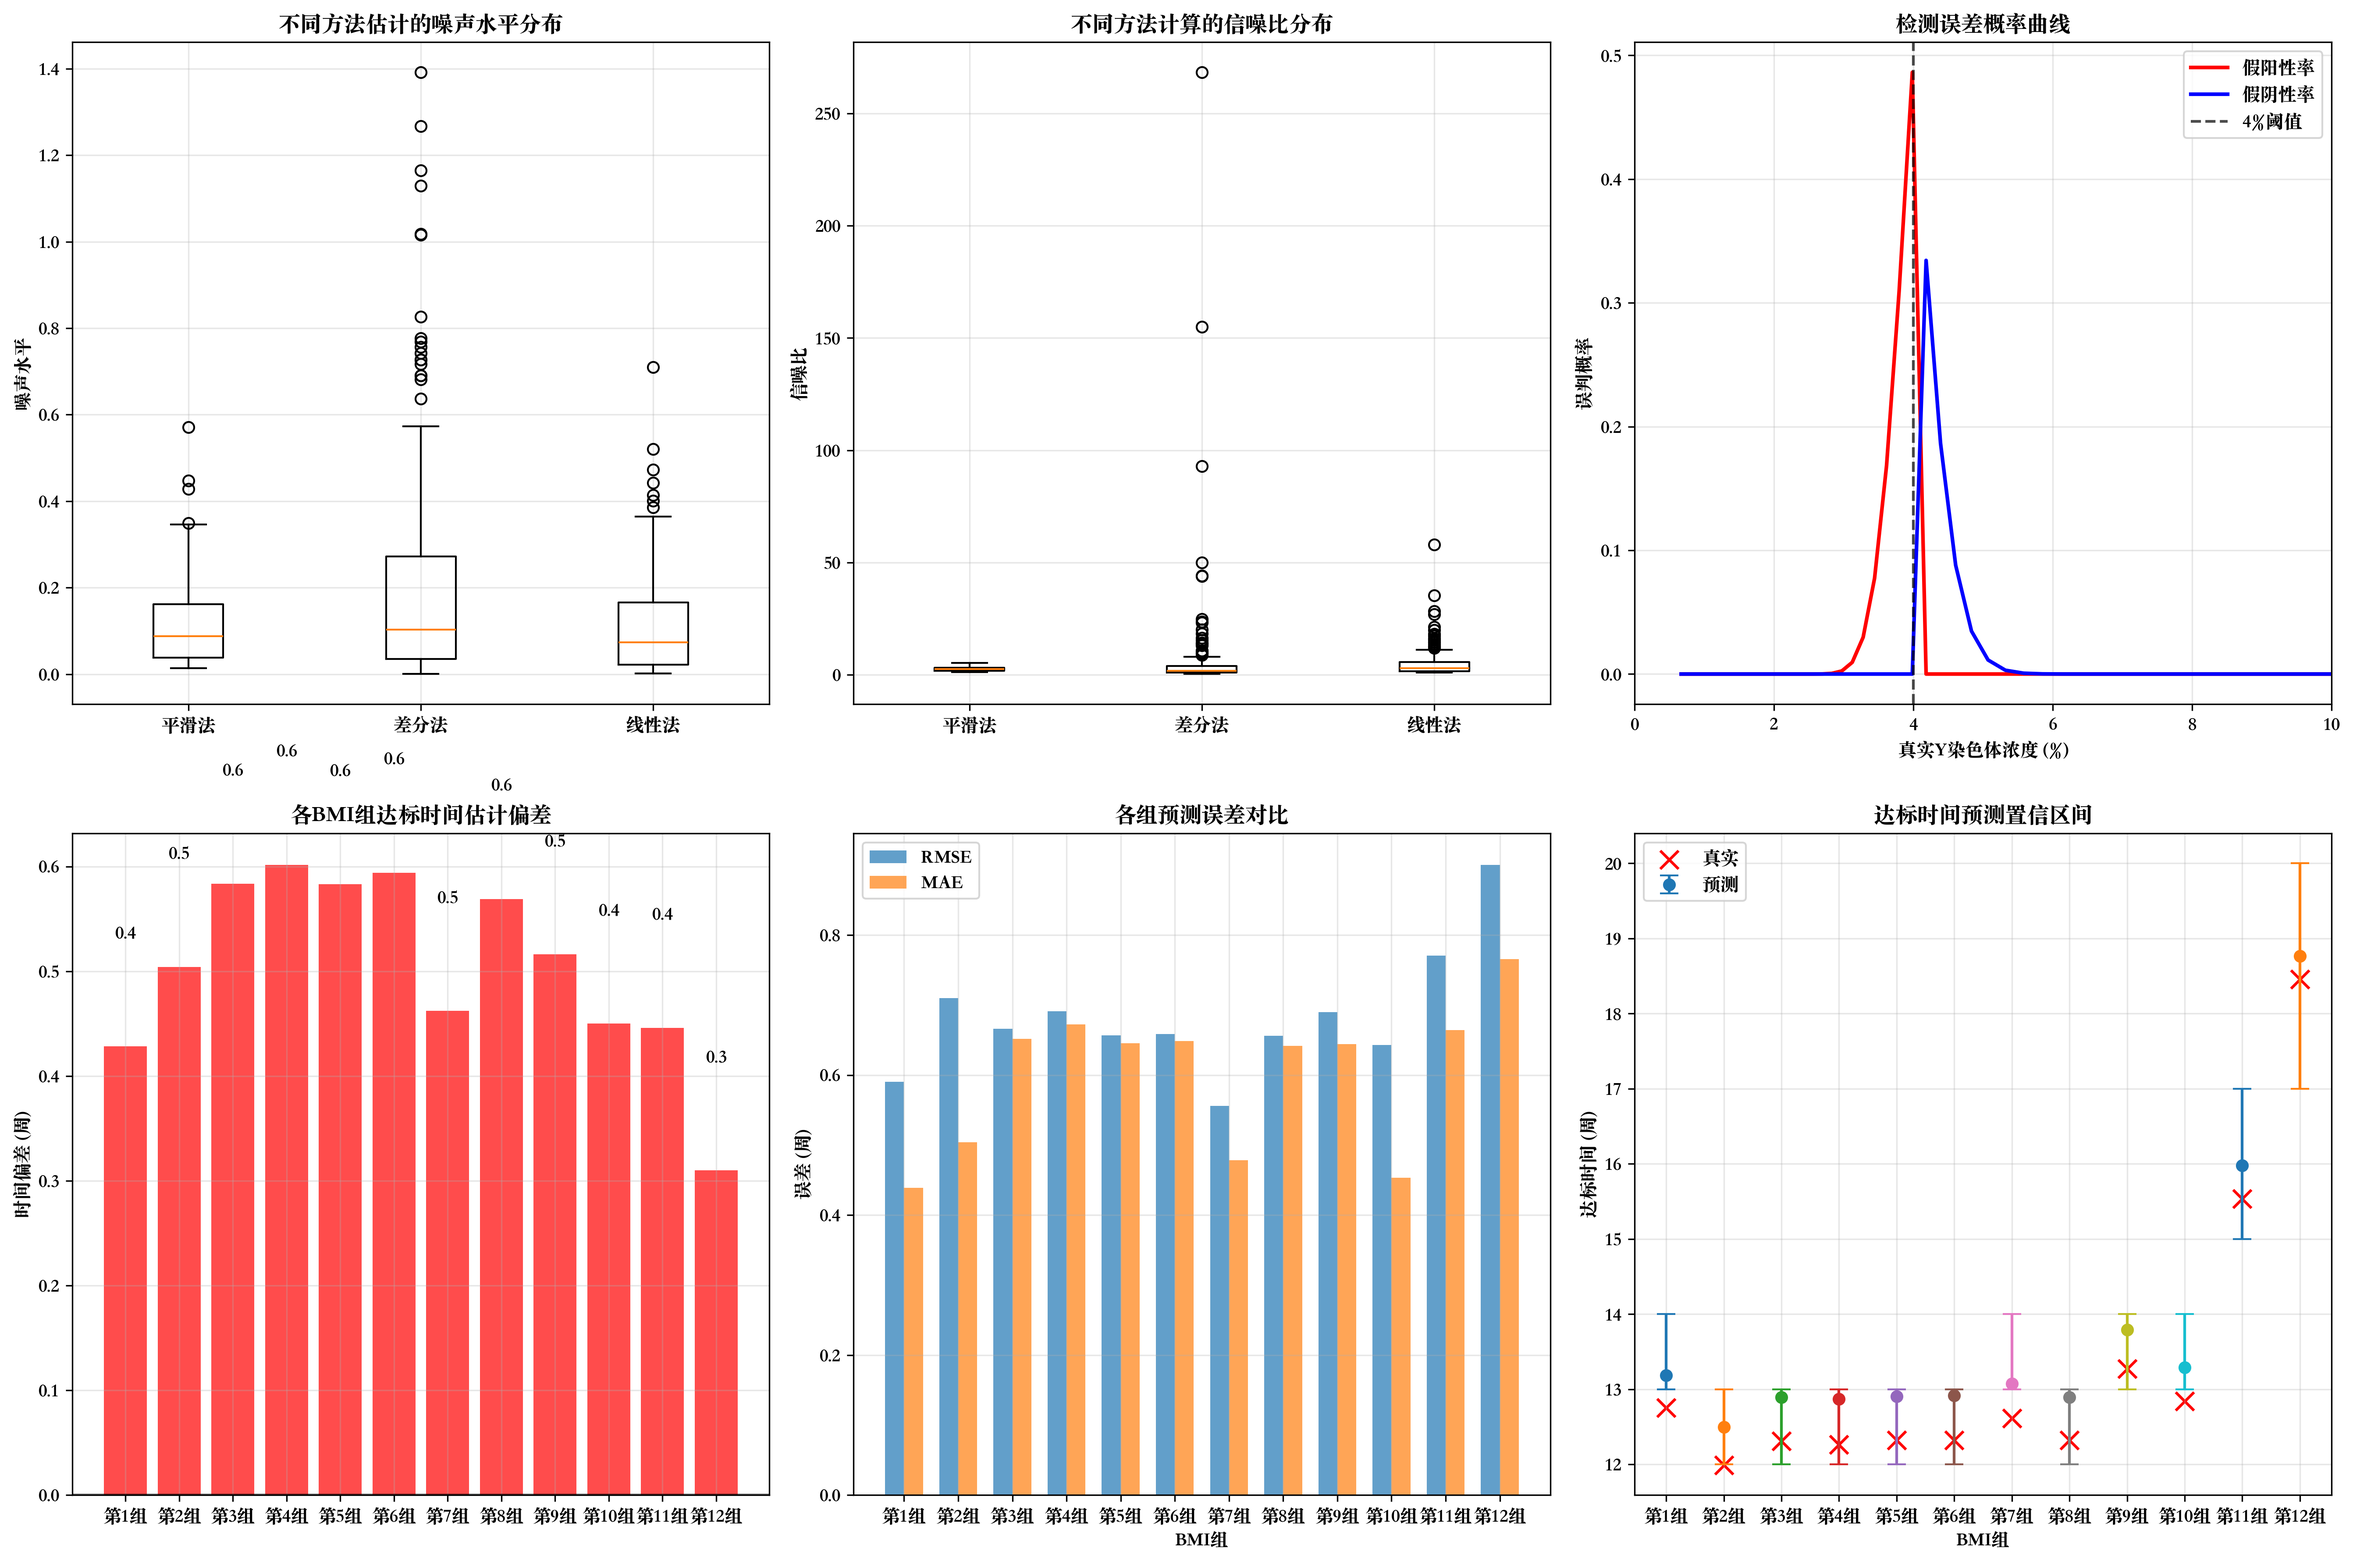
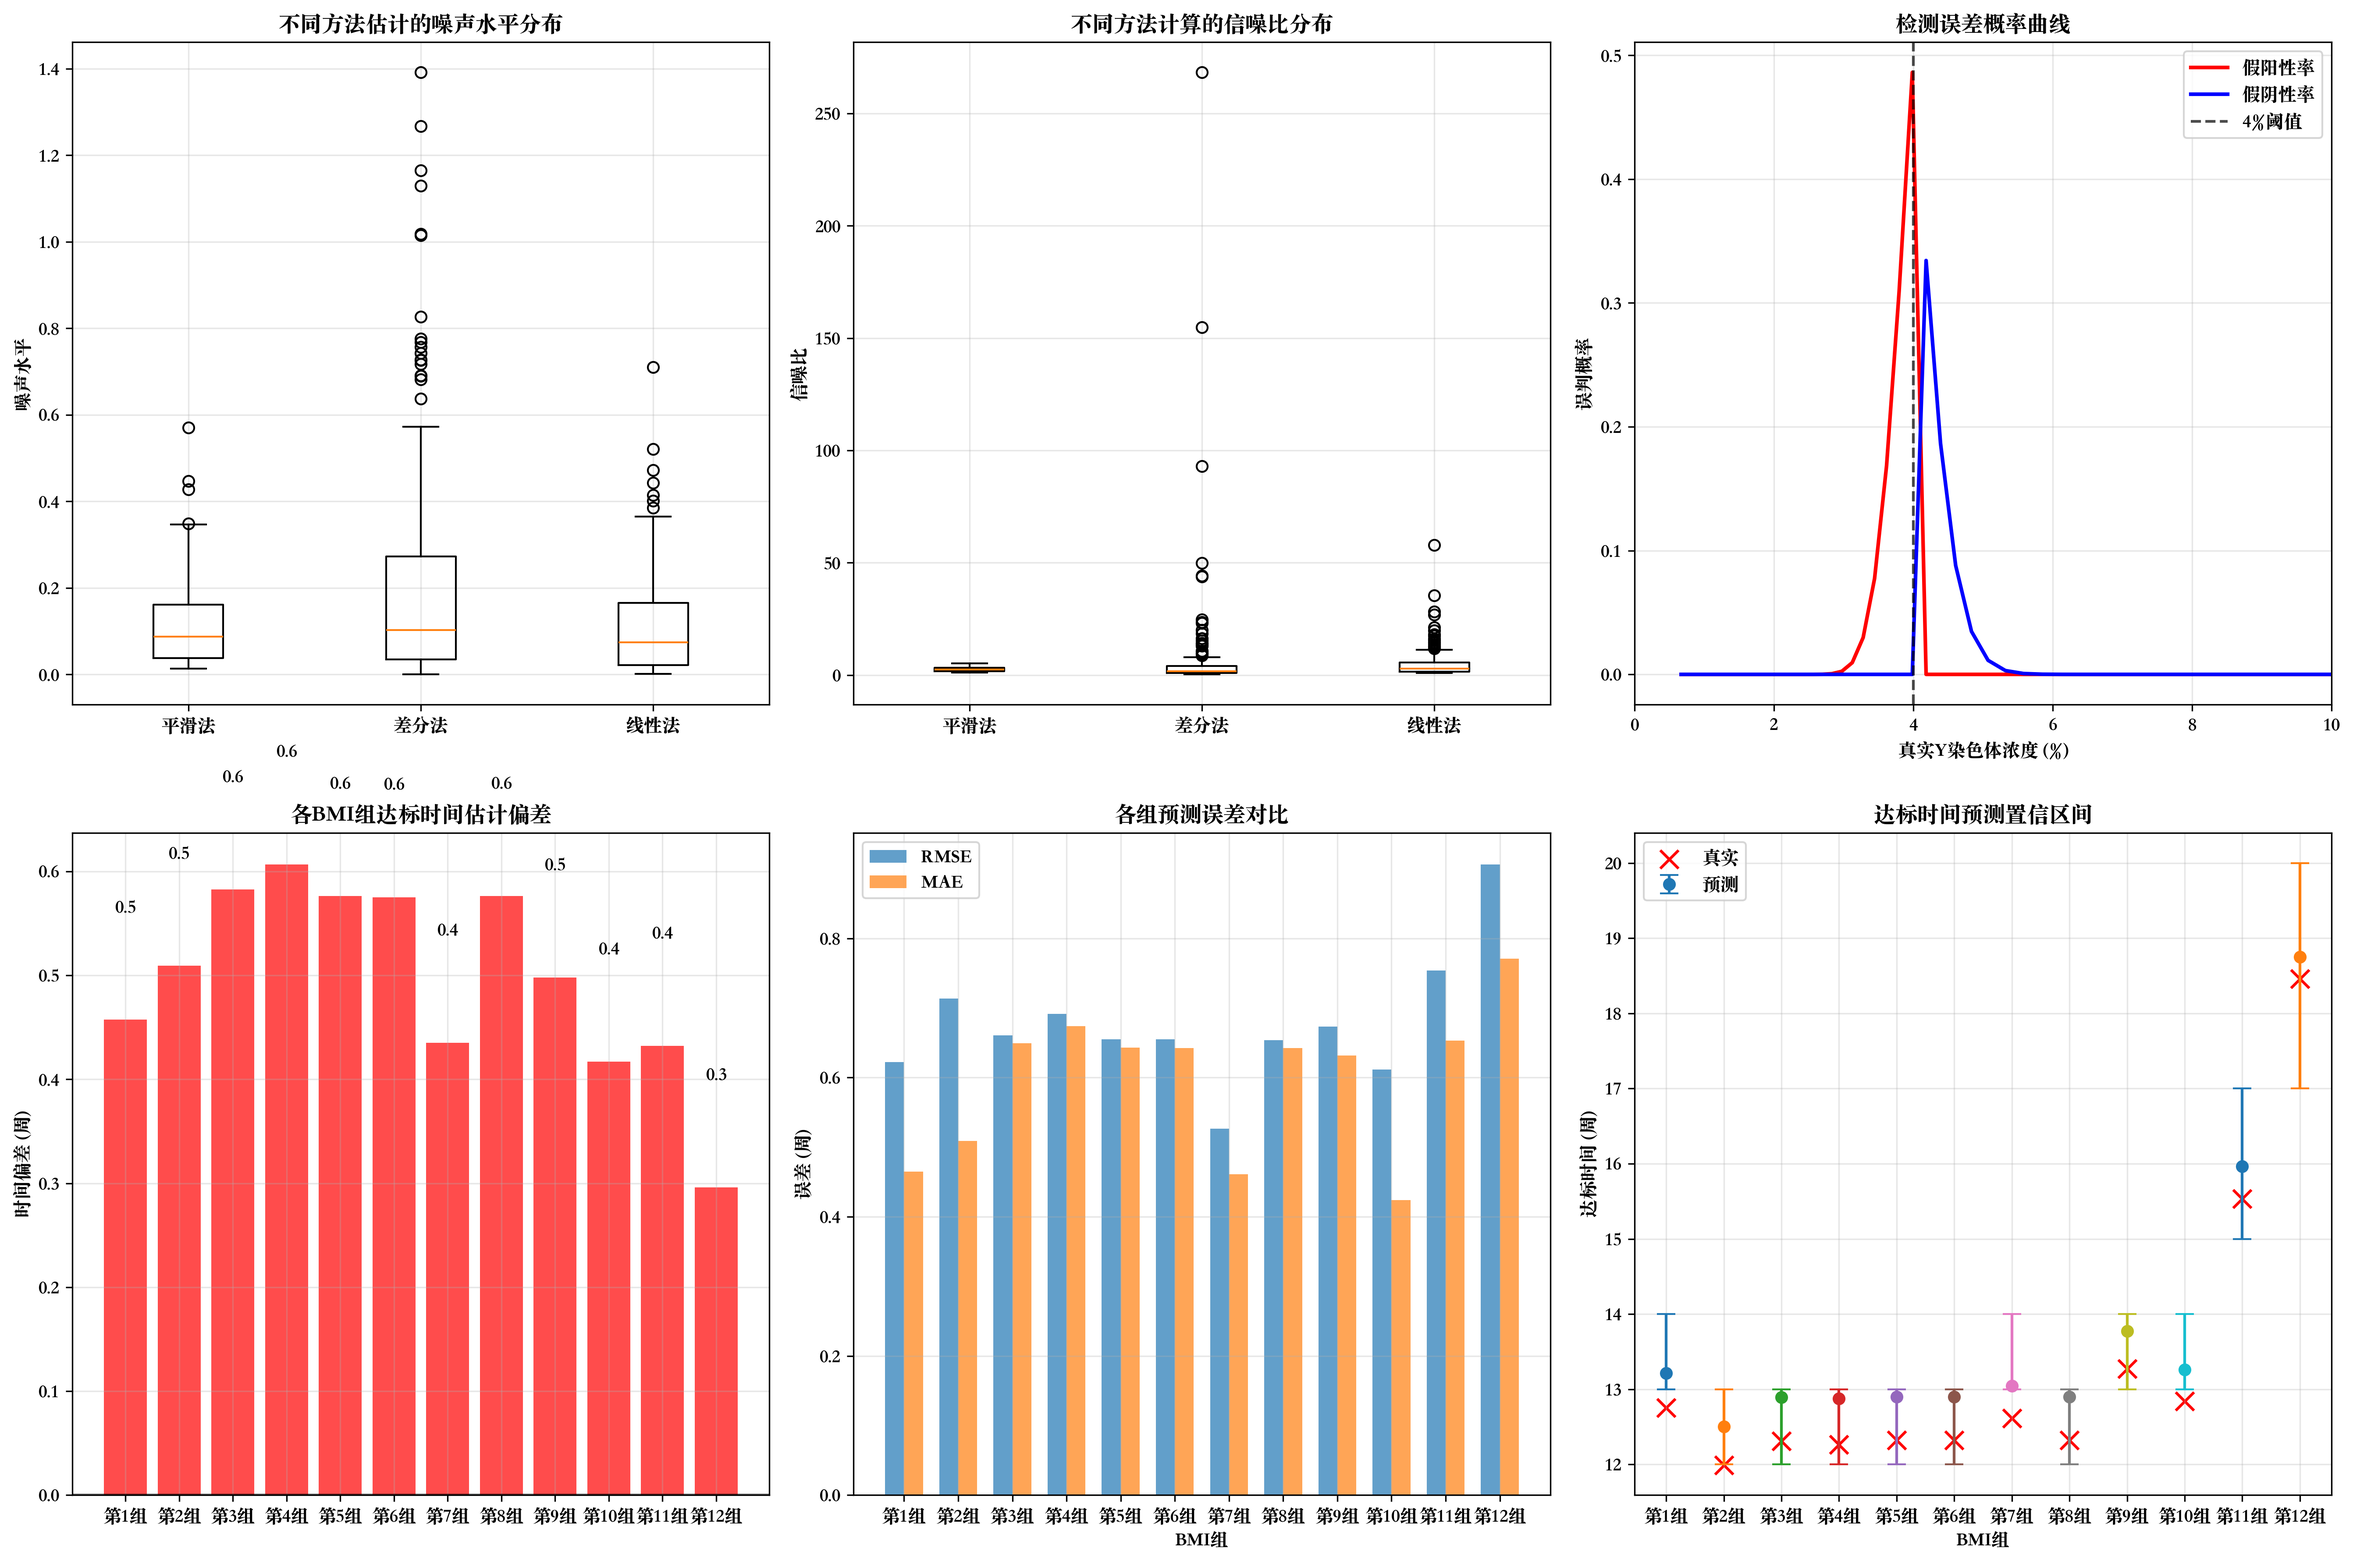
23

diff --git a/2/detection_error_analysis.py b/2/detection_error_analysis.py
@@ -173,6 +173,8 @@ class DetectionErrorAnalyzer:
         self.noise_metrics = {}
         self.error_rates = {}
         self.simulation_results = {}
+        # 报告上下文（用于动态描述分析依据/策略）
+        self.report_context = {}
         
     def estimate_measurement_noise(self, df, col_woman='孕妇代码', col_y='Y染色体浓度', 
                                  col_week=None, smoothing_window=3):
@@ -640,11 +642,13 @@ def generate_error_report(analyzer):
     """
     print("=== 生成误差分析报告 ===")
     
+    # 动态设置分析依据描述
+    analysis_basis = analyzer.report_context.get('analysis_basis', '区间删失生存模型分组')
     report = f"""# NIPT检测误差分析报告
 
 ## 1. 分析概述
 
-本报告分析NIPT检测过程中的测量误差及其对达标时间估计的影响，基于区间删失生存模型的结果进行误差传播分析。
+本报告分析NIPT检测过程中的测量误差及其对达标时间估计的影响，基于{analysis_basis}的结果进行误差传播分析。
 
 ## 2. 测量噪声分析
 
@@ -785,6 +789,8 @@ def run_error_analysis_with_strategy(strategy, data_file=None, output_suffix='')
     
     # 2) 估计噪声
     analyzer = DetectionErrorAnalyzer(output_dir=output_dir)
+    # 设置报告上下文（用于模板动态描述）
+    analyzer.report_context['analysis_basis'] = strategy.get_strategy_name()
     noise_summary, noise_df = analyzer.estimate_measurement_noise(
         raw_df,
         col_woman='孕妇代码',

diff --git a/2/detection_error_results_bmi_boundary/detection_error_analysis/detection_error_analysis_report.md b/2/detection_error_results_bmi_boundary/detection_error_analysis/detection_error_analysis_report.md
@@ -2,7 +2,7 @@
 
 ## 1. 分析概述
 
-本报告分析NIPT检测过程中的测量误差及其对达标时间估计的影响，基于区间删失生存模型的结果进行误差传播分析。
+本报告分析NIPT检测过程中的测量误差及其对达标时间估计的影响，基于BMI分界值分组的结果进行误差传播分析。
 
 ## 2. 测量噪声分析
 
@@ -52,7 +52,7 @@
 ##### [-1.890, -1.418]
 - **真实达标时间**: 12.8周
 - **预测均值**: 13.2周
-- **时间偏差**: +0.4周
+- **时间偏差**: +0.5周
 - **RMSE**: 0.6周
 - **95%置信区间**: [13.0, 14.0]周
 - **检测成功率**: 100.0%
@@ -99,9 +99,9 @@
 
 ##### [0.635, 1.081]
 - **真实达标时间**: 12.6周
-- **预测均值**: 13.1周
-- **时间偏差**: +0.5周
-- **RMSE**: 0.6周
+- **预测均值**: 13.0周
+- **时间偏差**: +0.4周
+- **RMSE**: 0.5周
 - **95%置信区间**: [13.0, 14.0]周
 - **检测成功率**: 100.0%
 
@@ -170,4 +170,4 @@
 - **模拟验证**: 蒙特卡洛方法验证误差传播效应
 
 ---
-*报告生成时间: 2025-09-06 23:37:44*
+*报告生成时间: 2025-09-07 00:37:19*

diff --git a/2/detection_error_results_interval_censored/detection_error_analysis/detection_error_analysis_report.md b/2/detection_error_results_interval_censored/detection_error_analysis/detection_error_analysis_report.md
@@ -44,7 +44,7 @@
 
 #### 总体误差指标：
 - **平均时间偏差**: 0.58周
-- **平均RMSE**: 0.69周  
+- **平均RMSE**: 0.68周  
 - **平均MAE**: 0.61周
 
 #### 各BMI组详细结果：
@@ -106,4 +106,4 @@
 - **模拟验证**: 蒙特卡洛方法验证误差传播效应
 
 ---
-*报告生成时间: 2025-09-06 23:37:40*
+*报告生成时间: 2025-09-07 00:37:16*
